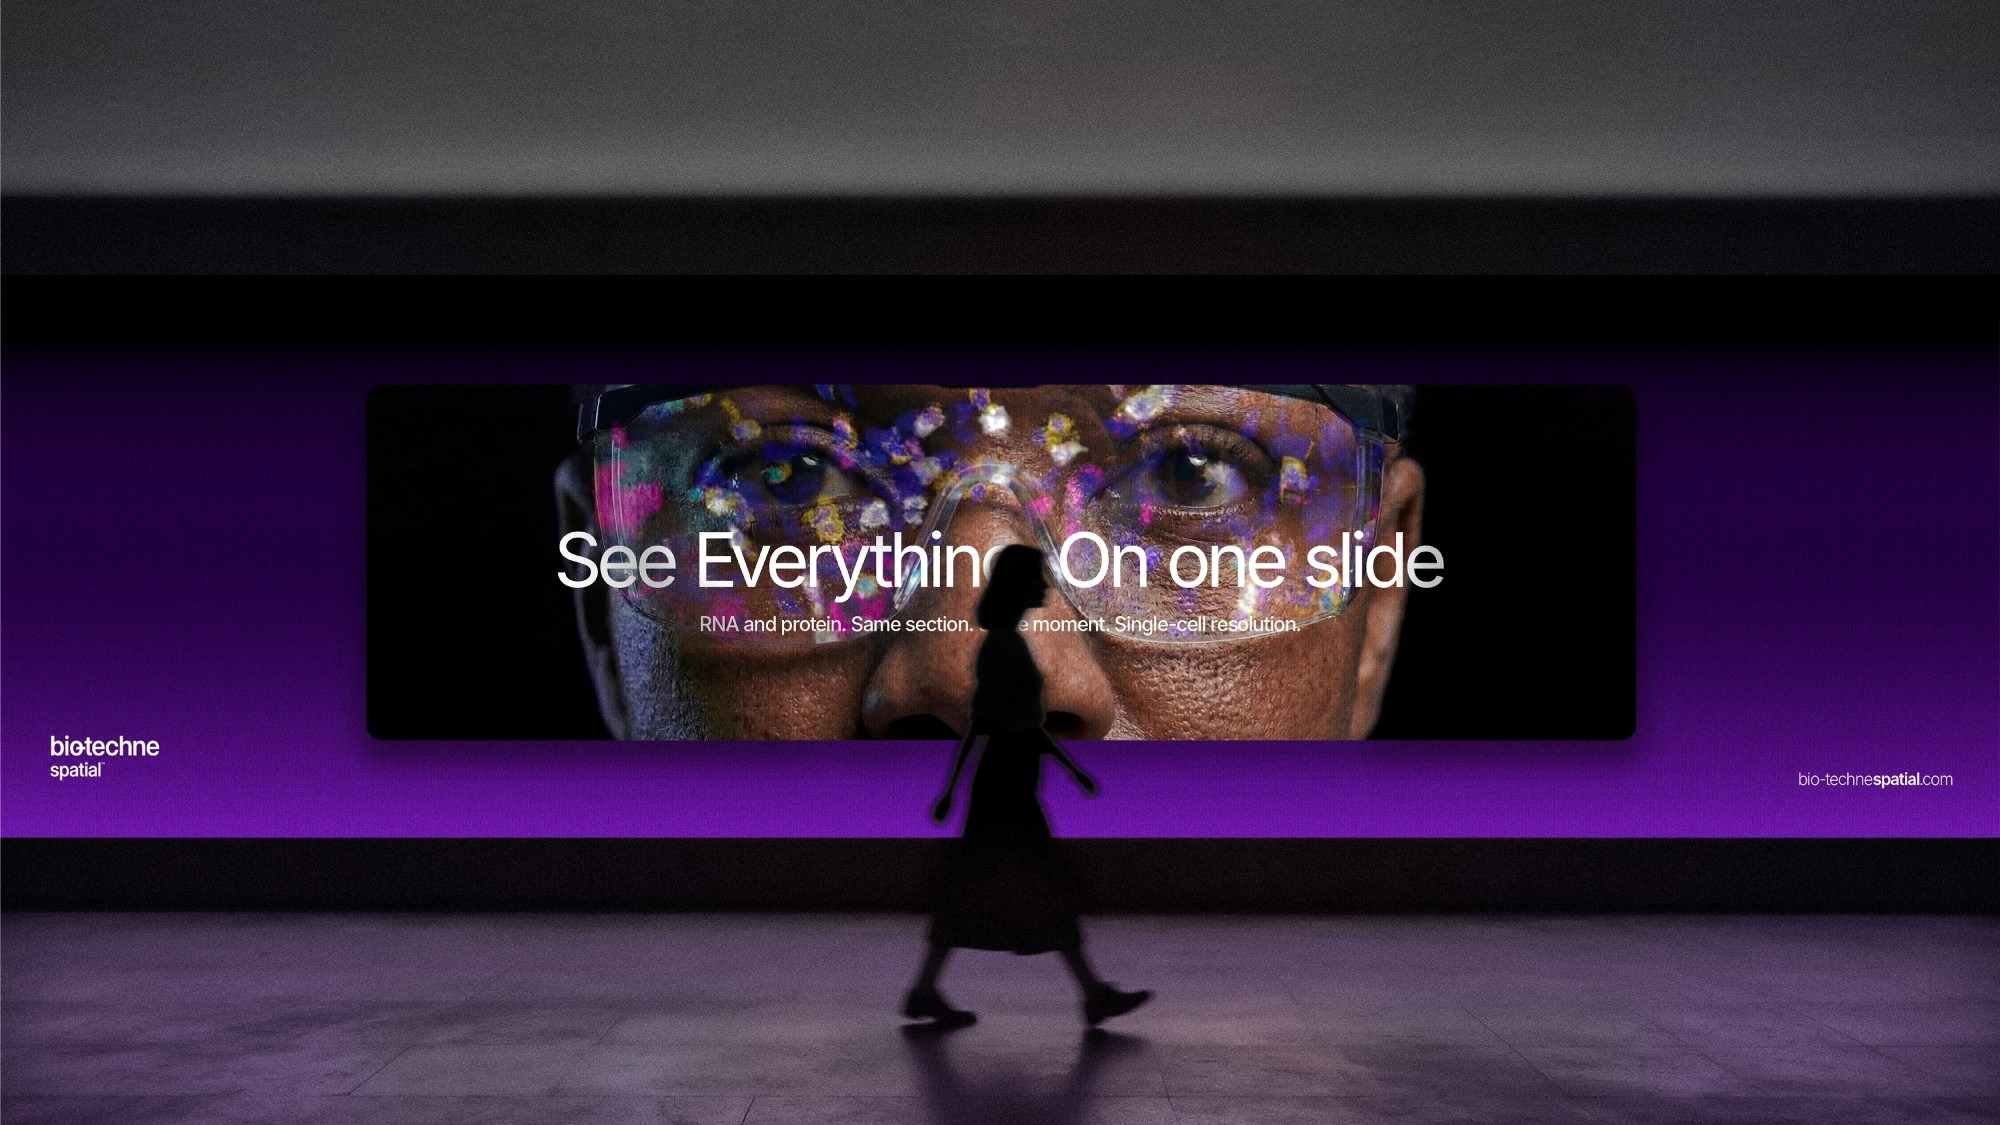
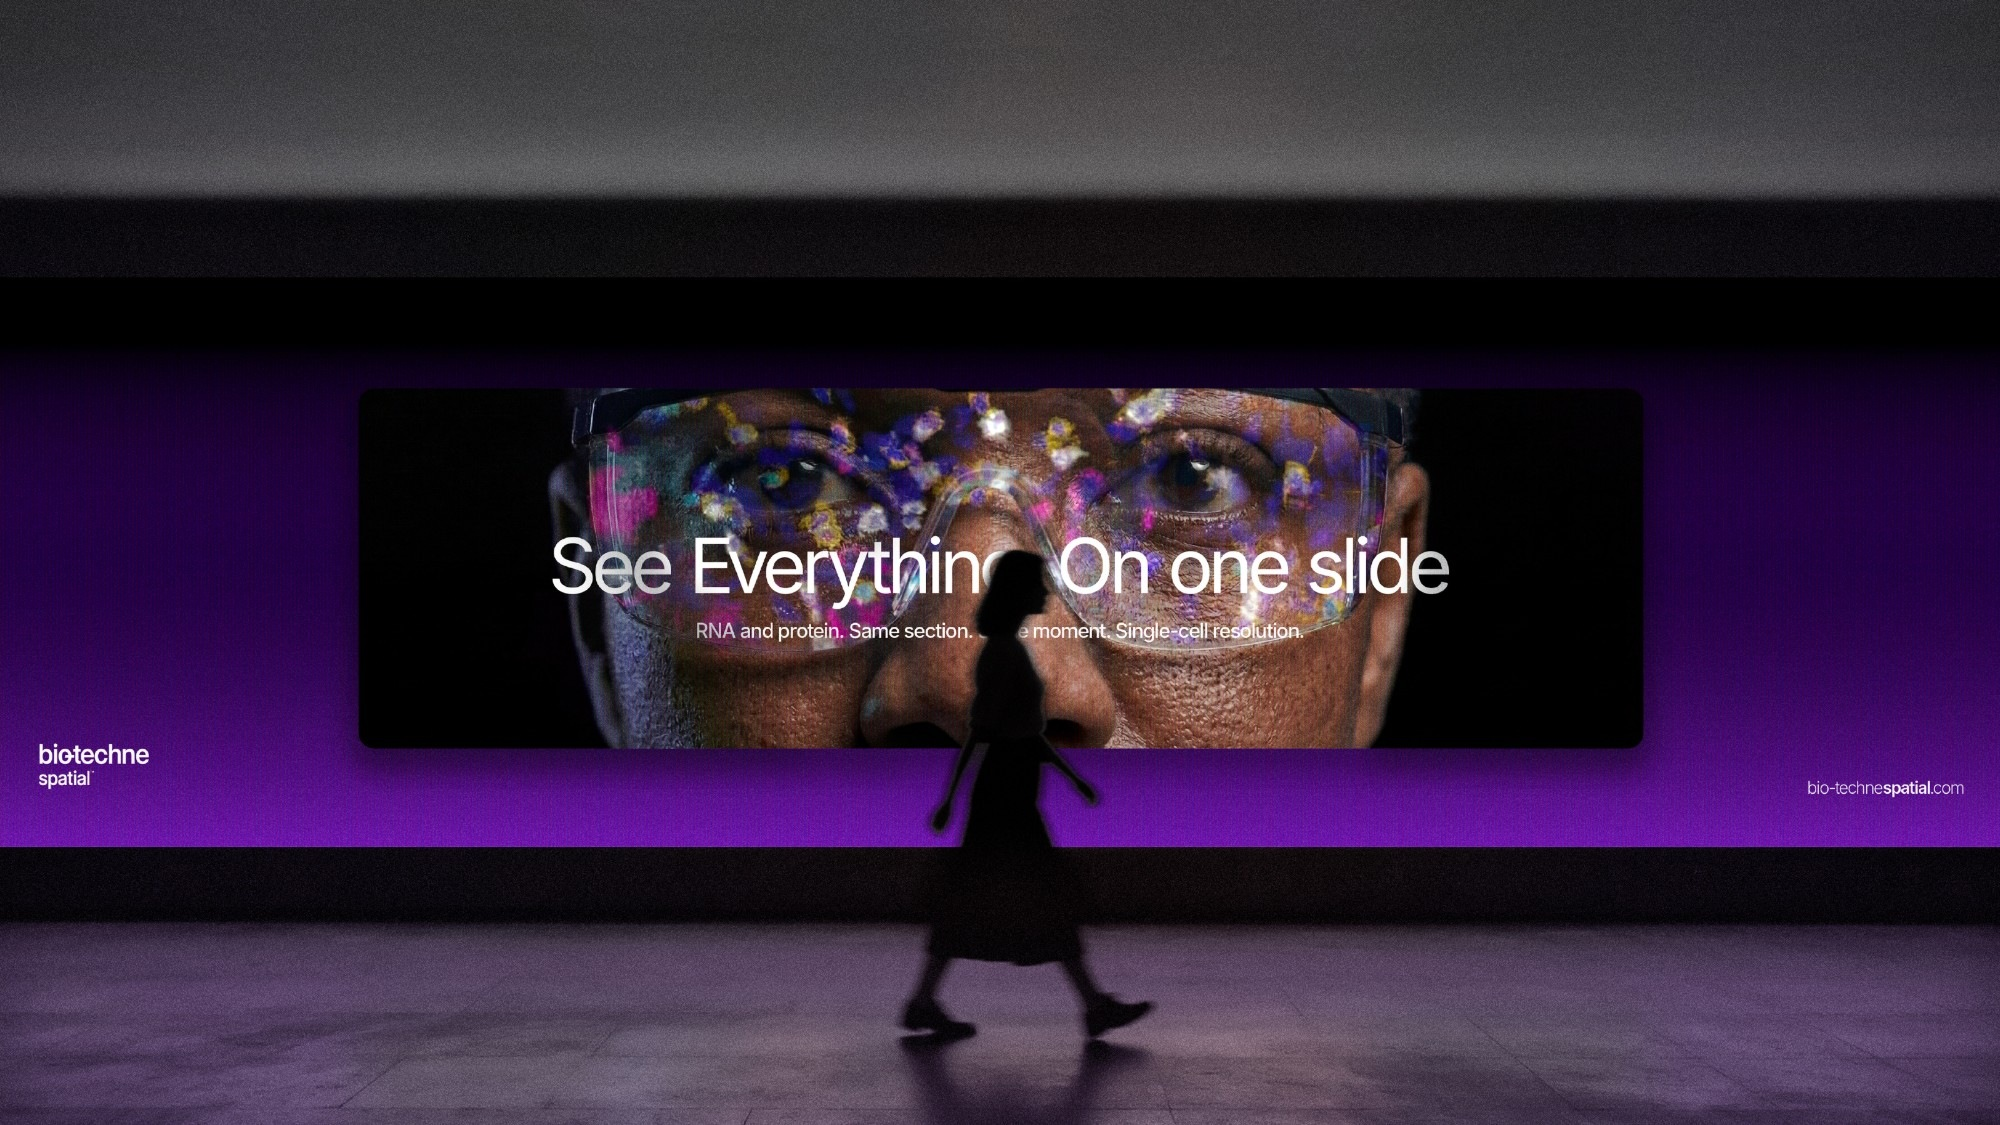
Bio-Techne: MULTIOMICS title card as cover and first carousel image
New billboard and stage-screen exports; billboard moves into the gallery.
Tall bento tile saved for the bento block once the other tiles arrive.

Claude-Session: https://claude.ai/code/session_015WxX2viJzYVTakY4j3fEPW

diff --git a/src/content/projects/biotechne-multiomics.md b/src/content/projects/biotechne-multiomics.md
@@ -11,16 +11,14 @@ role: "Strategy, concept, art direction, design"  # DRAFT: confirm role
 channels: ["Out of home", "Events", "Social", "Web", "Print literature"]
 summary: "A campaign built the same way the technology works: two visual languages, scientific and human, layered into one system."  # DRAFT: condensed from the overview
 order: 1
-# TODO: swap the cover to the MULTIOMICS title card (Multomics_Project-14-01) once the file is uploaded,
-# then add billboard.jpg back as the first gallery image.
-cover: "../../assets/projects/biotechne-multiomics/billboard.jpg"
+cover: "../../assets/projects/biotechne-multiomics/multiomics-cover.jpg"
 theme: dark         # the work is shot on black: this page always displays dark
 accent: "#7a1fd6"   # campaign purple, brightened so the thin carousel bars read over dark images
 carousel:           # homepage card slideshow, in order
+  - "../../assets/projects/biotechne-multiomics/multiomics-cover.jpg"
   - "../../assets/projects/biotechne-multiomics/billboard.jpg"
   - "../../assets/projects/biotechne-multiomics/stage-screen.jpg"
-  - "../../assets/projects/biotechne-multiomics/mobile-site.jpg"
-coverAlt: "Wide digital billboard in a dim corridor: a close-up of a scientist in safety glasses, fluorescent cell imagery reflected in the lenses, with the line “See Everything. On one slide.” A woman walks past in silhouette."
+coverAlt: "Title card on black: the Bio-Techne Spatial logo, the line “See more with RNAscope” and the word MULTIOMICS in large silver capitals, above a fan of six glass slides, each glowing with a different fluorescent layer."
 
 overview:
   - "Spatial biology is a category where every brand is producing the same stunning fluorescence imagery. The science is extraordinary. The creative has become invisible."
@@ -35,6 +33,10 @@ insight:
     - "The creative opportunity was not to make better versions of the same imagery. It was to build a system around a truth the category had overlooked entirely. The product collapses multiple modalities into one picture. The campaign should do the same."
 
 gallery:
+  - type: image
+    image: "../../assets/projects/biotechne-multiomics/billboard.jpg"
+    alt: "Wide digital billboard in a dim corridor: a close-up of a scientist in safety glasses, fluorescent cell imagery reflected in the lenses, with the line “See Everything. On one slide.” A woman walks past in silhouette."
+  # bento-tall.jpg (the vertical slide stack) is saved and waits for the other three bento tiles.
   # TODO: "The glass slide system" split goes here once its image is uploaded:
   #   heading: The glass slide system
   #   text: Each slide carries one layer of the multiomic story. RNA alone. Protein alone. Morphology alone.
